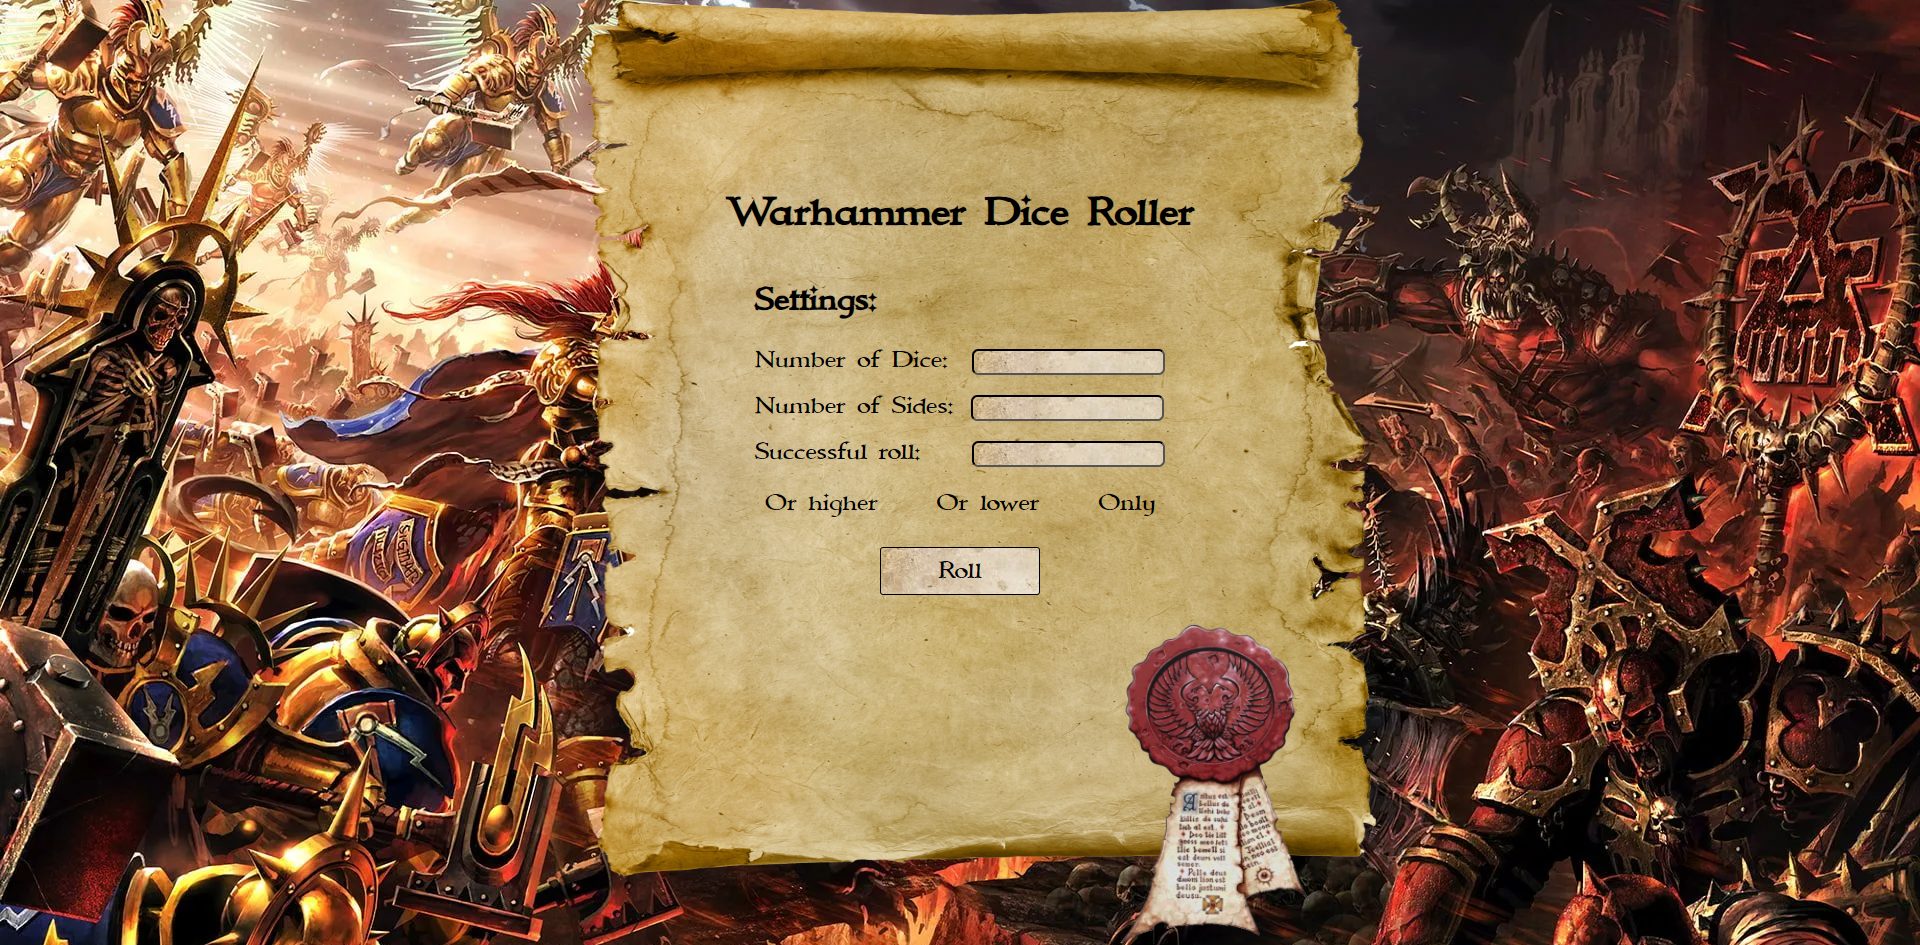
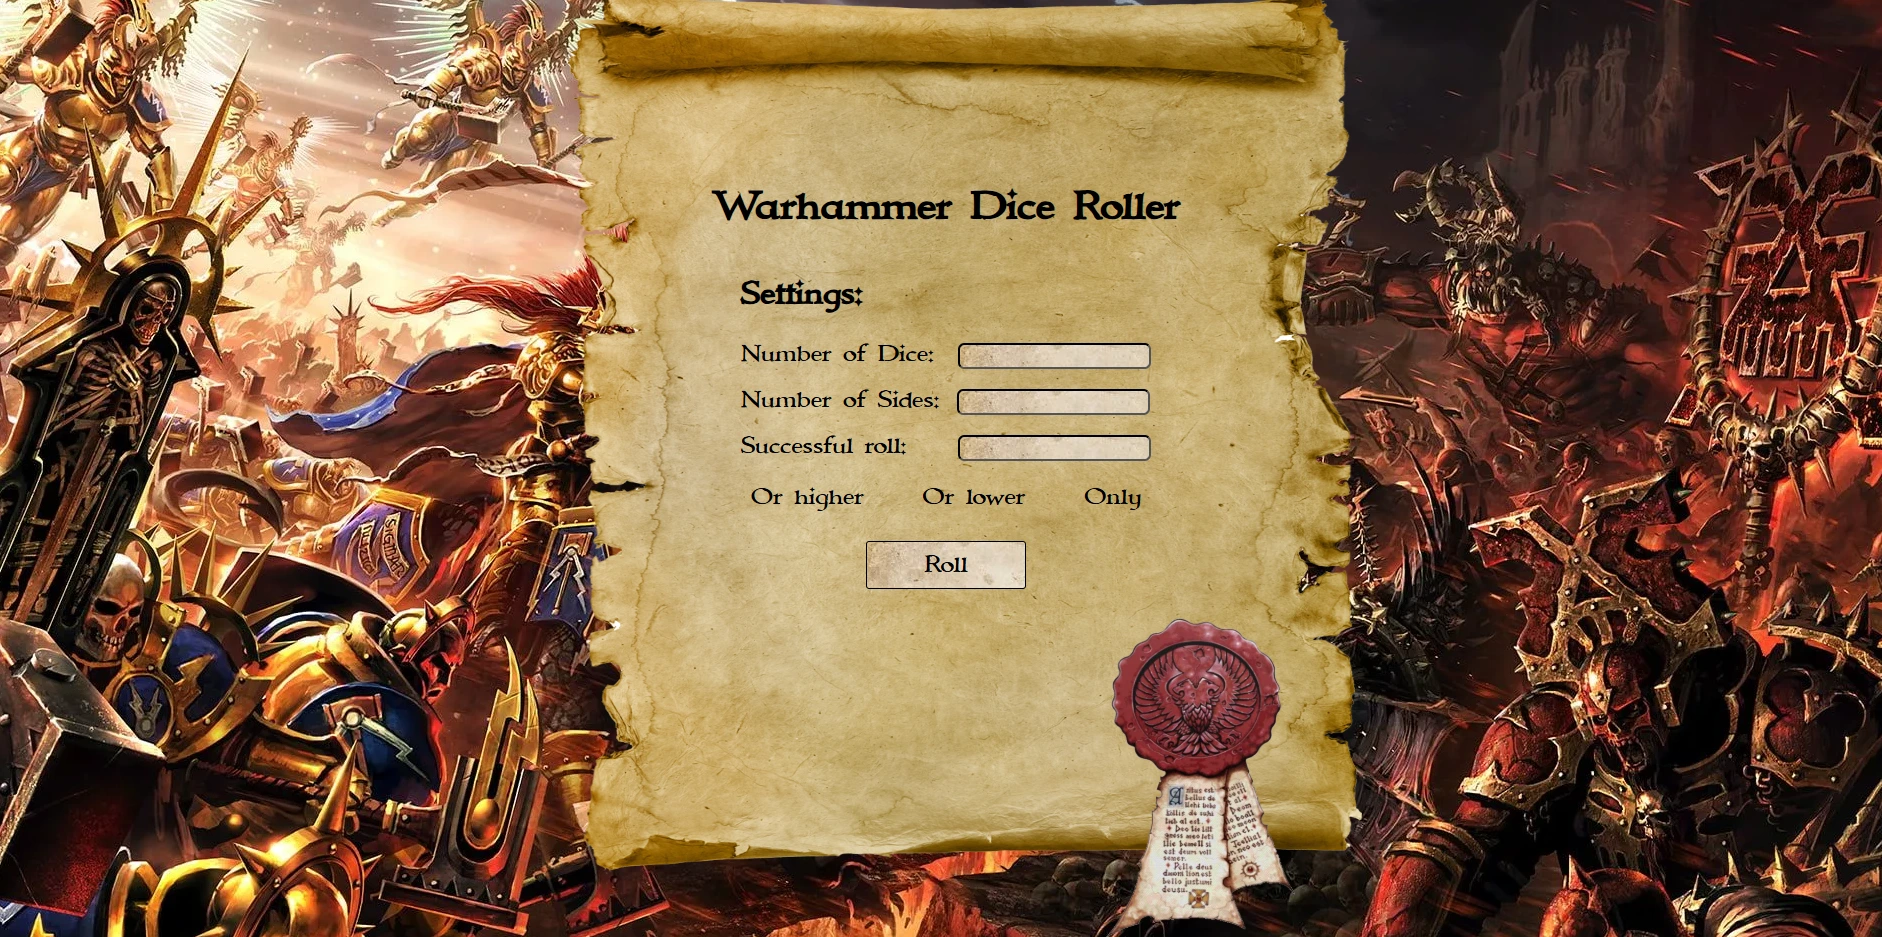
Updated ProjectDiceRoller.jsx

diff --git a/src/projects/ProjectDiceRoller.jsx b/src/projects/ProjectDiceRoller.jsx
@@ -3,7 +3,7 @@ import { SiHtml5, SiCss3, SiJavascript } from "react-icons/si";
 import CarouselComponent from "../ProjectCarousel.jsx";
 
 function ProjectDiceRoller() {
-    const carouselImages = ['/dice-roller.webp', '/dice-roller.webp', '/dice-roller.webp'];
+    const carouselImages = ['/dice-roller.webp', '/dice-roller-2.webp'];
 
     return (
         <div className="gradient-background min-h-screen">
